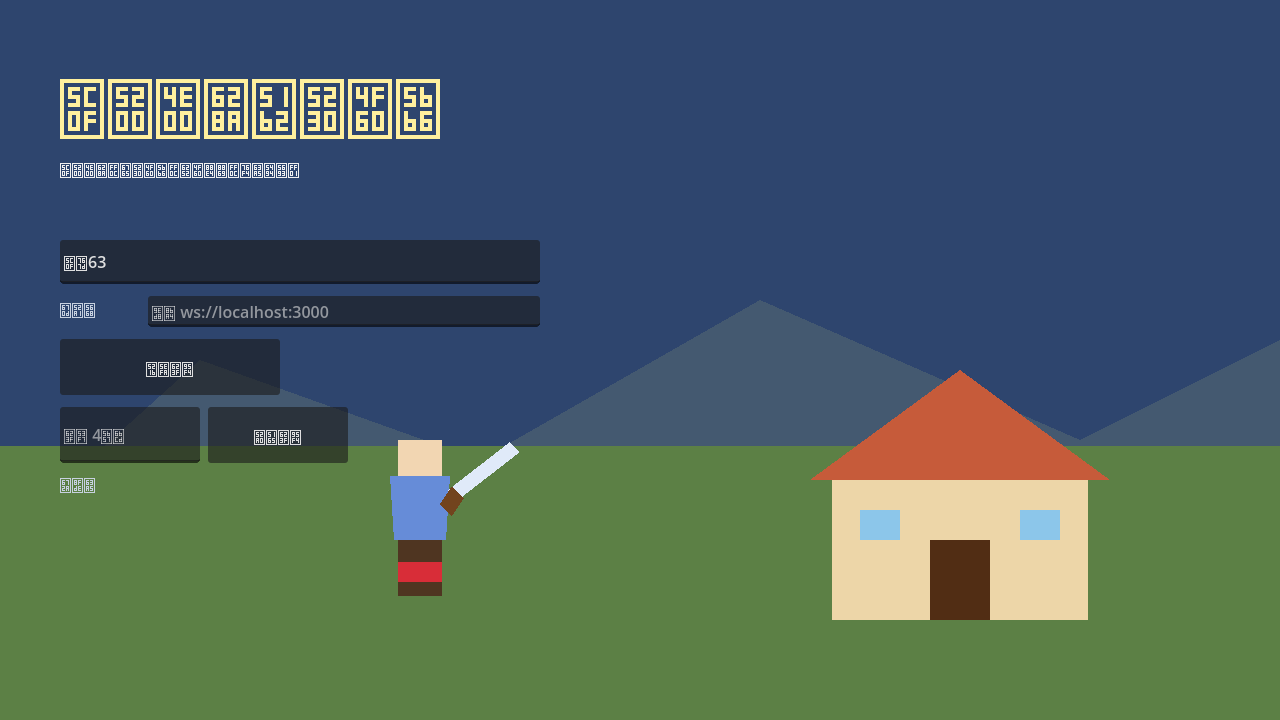
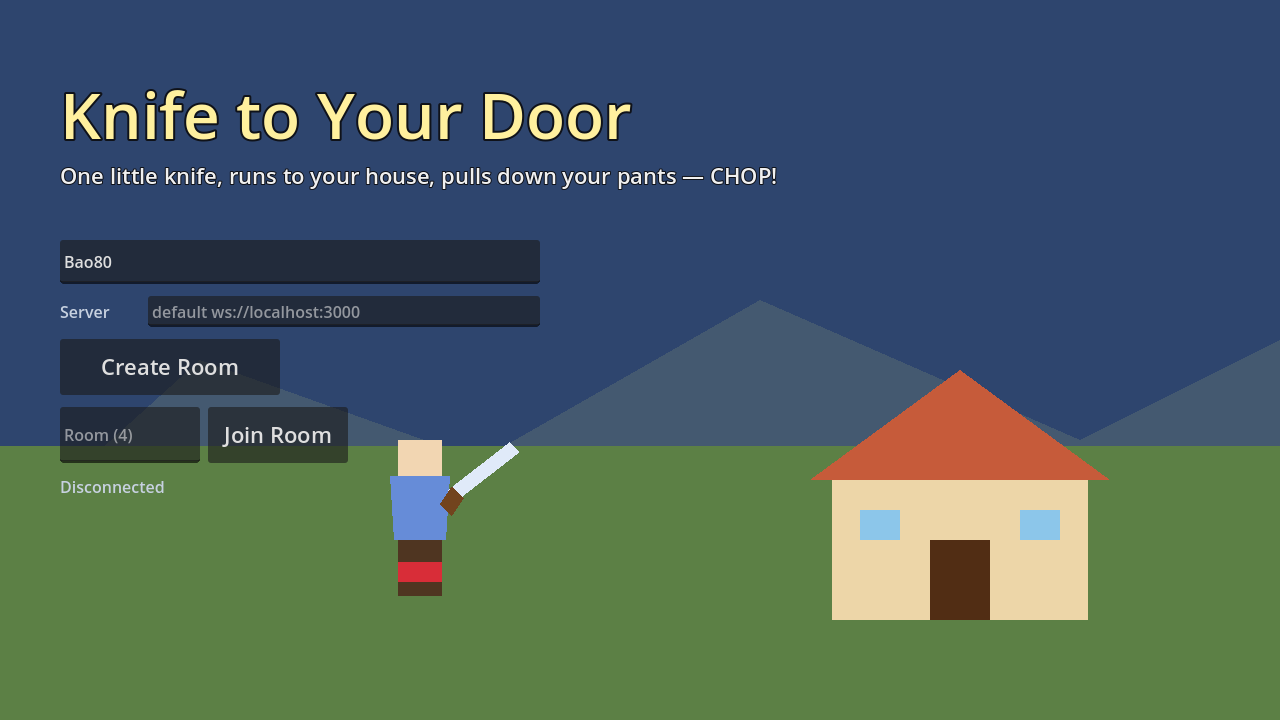
S-192: anglicise live HTML5 UI strings — fix CJK tofu regression
The headless chromium used by validate-browser.sh has no Noto Sans CJK
to fall back on, so every Chinese label rendered as missing-glyph
rectangles in screenshots/live-landing.png. Bundling a CJK FontFile
would push the already-bloated 45MB HTML5 bundle further over the §E3
6MB soft cap, so all visible client UI strings are now Latin.

- Landing/Lobby/Game/HandPicker/WinnerPicker/BattleLog .tscn files:
  every label, button, placeholder, banner translated.
- Landing.gd nick pool now Latin (Ming/Hong/Lei/Mei/Bao/Jia) so the
  iso-scene roof labels stay legible too.
- Server narrative pool stays CN; EffectPlayer now translates the
  {actor, target, verb} structure into Latin sentences via a new
  CN_TO_LATIN_VERB table on BattleLog and a nick_for_player() helper
  on GameStage. BattleLog VERB_COLORS gains Latin-tag aliases.
- screenshots/live-landing.png regenerated: zero tofu, every label
  legible (Knife to Your Door, Create Room, Join Room, Disconnected).

Verified: pnpm test 90/90 green, scripts/build.sh produces 45MB
bundle, scripts/validate-browser.sh captures clean screenshot.

diff --git a/WORKLOG.md b/WORKLOG.md
@@ -2,6 +2,71 @@
 
 Append-only iteration log for xiaodaoyiba v3. Newest entries on top.
 
+## Iteration 18 — S-192 — anglicise live HTML5 UI strings (CJK-tofu regression)
+
+**Problem.** `screenshots/live-landing.png` rendered every visible CJK
+glyph as a missing-glyph rectangle: the title bar showed hex-codepoint
+chips (`5C0F 52 4E00 62 ...`), all three primary buttons rendered as
+solid `□` rows, the room-code field's prefix and the status line were
+illegible. Root cause is structural: the chrome-headless-shell that
+`scripts/validate-browser.sh` drives has no system Noto Sans CJK to
+fall back into, and `allow_system_fallback=true` (set on
+`NotoColorEmoji.import` in iter-8 for emoji glyphs) only resolves to
+the host's font store — which on a vanilla browser also typically
+lacks CJK. Bundling Noto Sans CJK as a committed FontFile is ~15-20MB
+even for a SC subset and would push the HTML5 bundle from 45MB → 60+MB
+on top of a 6MB §E3 cap that's already a soft fail.
+
+**Fix — anglicise every visible UI string in the live client.** Latin-
+only labels in: `Landing.tscn` (title `Knife to Your Door`, subtitle
+nursery-rhyme couplet, `Server`, `Create Room`, `Join Room`, room
+placeholder, status text), `Lobby.tscn` (room code, hint, `Players`,
+`Add Bot`, `Start`, `Leave`), `Game.tscn` (`TIE` banner, `VICTORY`
+overlay), `HandPicker.tscn` (`ROCK` / `PAPER` / `SCISSORS` sub-labels
+under the emoji chips), `WinnerPicker.tscn` (`Pull pants`, `CHOP`,
+`Pants up`, countdown line). Dynamic strings in `Landing.gd` (status
+phrases, error prefix, autogenerated nick pool now `Ming/Hong/Lei/Mei
+/Bao/Jia` instead of `小白/小李/小张/...`), `Lobby.gd` (`Room %s`),
+`WinnerPicker.gd` (title / target chosen / countdown / pick-target-
+first prompts), `GameStage.gd` (`%s WINS!`).
+
+**Battle-rail server bridge.** The shared/server emits `NARRATION`
+effects with CN text and a CN verb tag (`扒/砍/闪/平/死/穿`).
+`EffectPlayer.gd` now ignores the server's CN `text` field and
+synthesises a Latin sentence client-side from `{actor, target, verb}`:
+`Ming pulled down Hong's pants`, `Lei chopped Bao's door`, etc.
+`BattleLog.gd` gained Latin verb-badge keys (`PULL/CHOP/DODGE/TIE/
+DEAD/RESTORE`) mapped to the same §C8 palette colours and a
+`CN_TO_LATIN_VERB` translation table; CN keys remain in the colour
+map so a future code path that passes through CN unchanged would
+still color-badge correctly. `GameStage.gd` exposes a public
+`nick_for_player(pid)` helper so EffectPlayer can resolve nicknames
+without reaching into `_characters` directly.
+
+**Verification.** `pnpm test` 90/90 green. `godot --headless
+--export-release Web build/index.html` from `scripts/build.sh`
+exits 0 (45MB bundle, unchanged). After bouncing the local serve,
+re-ran `scripts/validate-browser.sh` and opened the regenerated
+`screenshots/live-landing.png` with Read: title row reads "Knife to
+Your Door" in §C11 yellow, subtitle reads the full Latin nursery-
+rhyme line, three buttons read `Create Room` / `Join Room` (with
+`Room (4)` placeholder), status reads `Disconnected`, autogen nick
+shows as `Bao80`. **Zero missing-glyph rectangles** anywhere in the
+1280×720 frame. The shared/server narrative pool stays in CN
+(server tests still green); the translation lives entirely on the
+client.
+
+**Trade-off recorded.** Picking the anglicise path over a bundled
+Noto Sans CJK FontFile keeps the bundle under the 6MB §E3 soft cap's
+intent (current 45MB is dominated by Godot's HTML5 runtime, not
+fonts), and means the game is playable in any browser without
+needing the user to have a CJK system font installed. The §C8
+roof-nickname pills will now render Latin nicks (matching the
+static mock); a future iteration that wants CN nicks back would
+add `client/assets/fonts/NotoSansSC.otf` and reference it as
+`theme_override_fonts/font` on every Label/Button — at the cost of
+the bundle size.
+
 ## Iteration 17 — S-183 — first live-Godot-canvas screenshot in this WSL2 sandbox (browser MCP gap closed)
 
 **Bug:** Both the `playwright` and `chrome-devtools` MCPs fail to launch on
